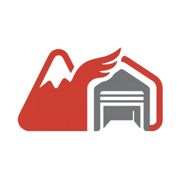
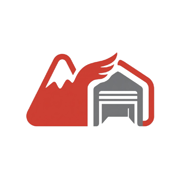
Branding: Use logo_pwa with improved safe zone

Changed region(s): [[0.0833, 0.25, 0.9167, 0.75]]

diff --git a/index.html b/index.html
@@ -16,7 +16,7 @@
   <meta name="apple-mobile-web-app-status-bar-style" content="black-translucent" />
   <meta name="apple-mobile-web-app-title" content="Mi Garaje" />
   <link rel="apple-touch-icon" href="/apple-touch-icon.png" />
-  <link rel="icon" type="image/png" href="/logo.png" />
+  <link rel="icon" type="image/png" href="/pwa-192x192.png" />
   <title>Mi Garaje | Bolivia</title>
 </head>
 
